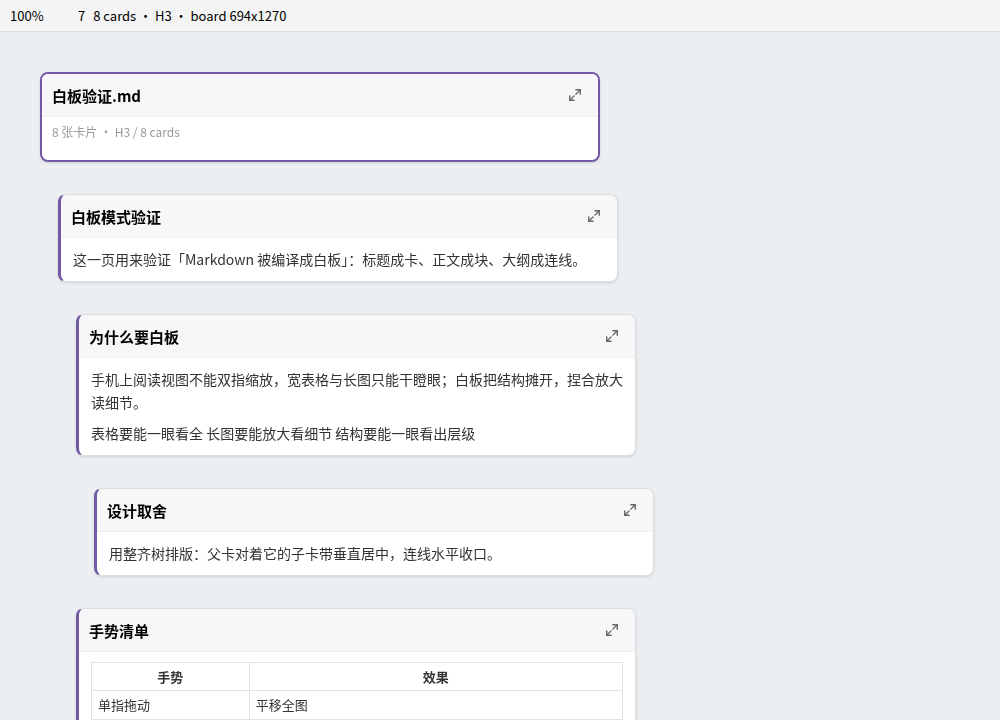
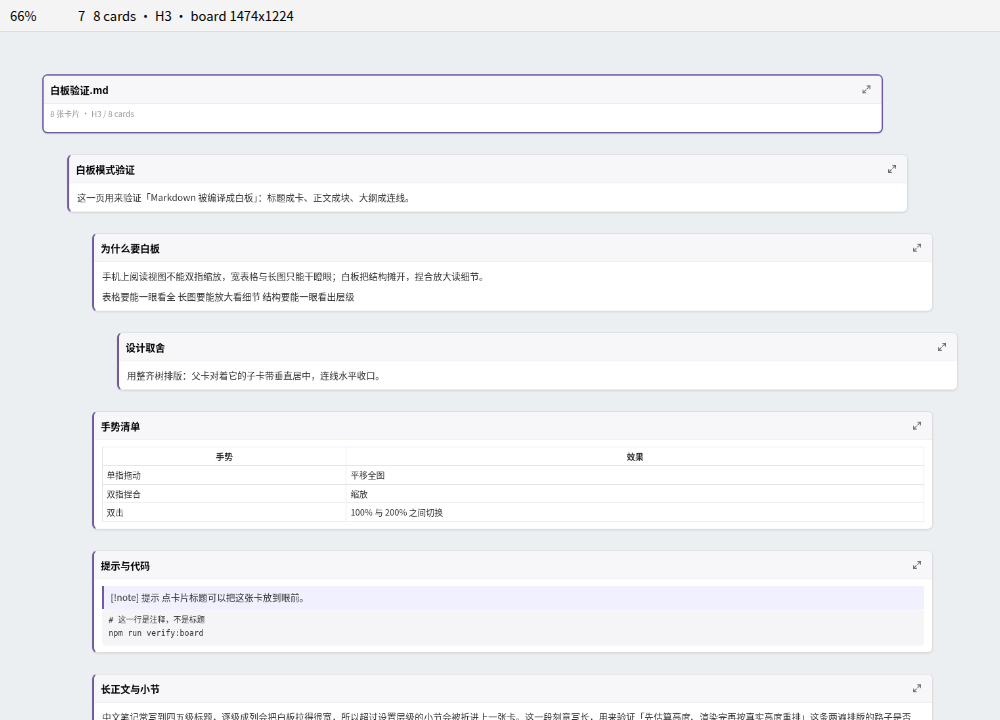
1.3.4：默认栏宽改 1280px（网页版心），并加「适配栏宽」一键铺满
用户反馈：「A5 宽度有点小，改为网页的宽度 1280px，这个符合上下滑动观看的体验效果。」

- 默认栏宽 560（A5）→ 1280px：一行放得下长句、表格有地方铺，整栏在正常屏幕上就是满宽，
  「往下滑 = 往下读」才成立。纸张仍是可选预设（A5 560 / A4 794），读数说人话：
  「1280 px · 网页宽 Web」「560 px · A5 · 148mm」。滑块范围放宽到 320~1600。
- 工具条新增「适配栏宽」：整栏铺满视口宽度（手机上 1280 装不下一屏时，一键进入纯上下滑）。
- 纵向流缩进随栏宽缩放（约栏宽 3%，1280 时约 38px）——固定 18px 在宽栏里看不出层级。

验证：100 单测 / verify:board 49 / verify:gestures 74 / verify:labels 9 / verify:layout 全过，
npm run check 退出码 0。verify:board 新增：出厂默认确为 1280 且读数含「网页宽」、
A5 预设仍 = 148mm ≈ 560px、适配栏宽后最右卡片边缘落在视口内且 scale < 1。

diff --git a/src/settings-spec.ts b/src/settings-spec.ts
@@ -73,6 +73,10 @@ export interface ZoomableReaderSettings {
 export const PAPER_WIDTHS_PX = { A6: 397, A5: 560, A4: 794 } as const;
 export type PaperName = keyof typeof PAPER_WIDTHS_PX;
 
+/** 网页版心宽度（桌面 Web 的常见内容宽度）。白板默认就是它：一行放得下长句，
+ *  配合「往下滑就是往下读」最顺 —— 比 A5（560px）宽得多，不再是窄窄一条。 */
+export const WEB_WIDTH_PX = 1280;
+
 /** 这个宽度是不是某张标准纸（容差 8px：滑块步长 10px，落点不会精确到小数点）。 */
 export function paperNameFor(width: number, tolerance: number = 8): PaperName | null {
   for (const name of Object.keys(PAPER_WIDTHS_PX) as PaperName[]) {
@@ -86,10 +90,19 @@ export function widthToMm(width: number): number {
   return Math.round((width / 96) * 25.4);
 }
 
-/** 设置页里滑块右侧的读数：「560 px ≈ A5 · 148mm」。 */
+/** 这个宽度的人话名字：网页宽 / A5 / A4 …… 都不是就返回 null（只报毫米）。 */
+export function widthPresetName(width: number, tolerance: number = 8): string | null {
+  if (Math.abs(width - WEB_WIDTH_PX) <= tolerance) return "网页宽 Web";
+  return paperNameFor(width, tolerance);
+}
+
+/** 设置页里滑块右侧的读数：「1280 px · 网页宽 Web」/「560 px · A5 · 148mm」。 */
 export function cardWidthLabel(width: number): string {
   const paper = paperNameFor(width);
-  return width + " px" + (paper ? " ≈ " + paper : "") + " · " + widthToMm(width) + "mm";
+  if (paper) return width + " px · " + paper + " · " + widthToMm(width) + "mm";
+  const preset = widthPresetName(width);
+  if (preset) return width + " px · " + preset;
+  return width + " px · " + widthToMm(width) + "mm";
 }
 
 export const DEFAULT_SETTINGS: ZoomableReaderSettings = {
@@ -102,9 +115,10 @@ export const DEFAULT_SETTINGS: ZoomableReaderSettings = {
   defaultMode: "page",
   showToolbar: true,
   padding: 16,
-  /* 默认 A5：卡片就是一张纸（148mm 宽 ≈ 560px）。以前是 320px，正文一行只有二十来个字，
-   * 既不像纸也太窄 —— 用户实测反馈「白板看起来尺寸很小」。 */
-  boardCardWidth: PAPER_WIDTHS_PX.A5,
+  /* 默认 1280px = 网页版心宽度（桌面 Web 常见内容宽度）。
+   * 演进：320px（一行二十来个字，太窄）→ A5 560px（像纸，但手机上仍偏窄）→ 1280px。
+   * 用户实测反馈：「A5 宽度有点小，改成网页的宽度 1280px，这个符合上下滑动观看的体验」。 */
+  boardCardWidth: WEB_WIDTH_PX,
   boardMaxDepth: 3,
   boardGap: 32,
   boardConnectors: true,
@@ -333,14 +347,14 @@ export const SETTINGS_GROUPS: SettingsGroupSpec[] = [
         id: "board-card-width",
         key: "boardCardWidth",
         min: 320,
-        max: 900,
-        step: 10,
+        max: 1600,
+        step: 20,
         format: cardWidthLabel,
-        zh: "卡片宽度（纸张大小）",
-        en: "Card width (paper size)",
-        zhDesc: "默认 A5（148mm ≈ 560px）：卡片就是一张纸，一行 30~40 个汉字，接近书的行长。A4 更宽、A6 更窄；白板本身可以捏合缩放，选自己顺眼的。",
-        enDesc: "Defaults to A5 (148mm, about 560px): a card is a sheet of paper, 30-40 Chinese characters per line. A4 is wider, A6 narrower; the board itself zooms, so pick what reads best.",
-        aliases: ["卡片", "宽度", "纸张", "尺寸", "A4", "A5", "A6", "card", "width", "paper", "size", "board"],
+        zh: "栏宽（卡片宽度）",
+        en: "Column width (card width)",
+        zhDesc: "默认 1280px = 网页版心宽度：一行放得下长句，配合上下滑动阅读最顺。想要纸的感觉可以调到 560（A5）或 794（A4），读数会显示毫米数；白板本身能捏合缩放，选自己顺眼的。",
+        enDesc: "Defaults to 1280 px, a desktop web content width: long lines, and it reads well when you simply scroll down. Pick 560 (A5) or 794 (A4) for a paper feel — the readout shows millimetres. The board zooms, so use what reads best.",
+        aliases: ["卡片", "宽度", "栏宽", "版心", "纸张", "尺寸", "网页", "A4", "A5", "A6", "card", "width", "column", "paper", "size", "web", "board"],
       },
       {
         control: "slider",

diff --git a/tests/settings-spec.test.ts b/tests/settings-spec.test.ts
@@ -4,8 +4,10 @@ import {
   DEFAULT_SETTINGS,
   PAPER_WIDTHS_PX,
   SETTINGS_GROUPS,
+  WEB_WIDTH_PX,
   cardWidthLabel,
   paperNameFor,
+  widthPresetName,
   widthToMm,
 } from "../src/settings-spec";
 
@@ -91,31 +93,40 @@ describe("设置页的双语契约", () => {
   });
 });
 
-describe("纸张尺寸：默认 A5（用户要求「默认要 A5，这符合纸张的大小」）", () => {
-  it("默认卡片宽 = A5 宽（148mm 在 96dpi 下 ≈ 560px）", () => {
-    expect(paperNameFor(DEFAULT_SETTINGS.boardCardWidth)).toBe("A5");
-    expect(widthToMm(DEFAULT_SETTINGS.boardCardWidth)).toBe(148);
-    expect(Math.abs(DEFAULT_SETTINGS.boardCardWidth - (148 / 25.4) * 96)).toBeLessThanOrEqual(1);
+describe("栏宽：默认 1280 网页宽（用户要求「改成网页的宽度 1280px，符合上下滑动观看」）", () => {
+  it("默认栏宽 = 1280px（网页版心）", () => {
+    expect(DEFAULT_SETTINGS.boardCardWidth).toBe(WEB_WIDTH_PX);
+    expect(WEB_WIDTH_PX).toBe(1280);
+    expect(widthPresetName(DEFAULT_SETTINGS.boardCardWidth)).toContain("网页宽");
   });
 
-  it("三张常见纸都能被认出来（A6 / A5 / A4）", () => {
-    expect(paperNameFor(PAPER_WIDTHS_PX.A6)).toBe("A6");
+  it("纸张仍是可选预设：A5 宽 148mm 在 96dpi 下 ≈ 560px", () => {
     expect(paperNameFor(PAPER_WIDTHS_PX.A5)).toBe("A5");
+    expect(widthToMm(PAPER_WIDTHS_PX.A5)).toBe(148);
+    expect(Math.abs(PAPER_WIDTHS_PX.A5 - (148 / 25.4) * 96)).toBeLessThanOrEqual(1);
+  });
+
+  it("三张常见纸都能被认出来（A6 / A5 / A4），1280 不算纸", () => {
+    expect(paperNameFor(PAPER_WIDTHS_PX.A6)).toBe("A6");
     expect(paperNameFor(PAPER_WIDTHS_PX.A4)).toBe("A4");
+    expect(paperNameFor(WEB_WIDTH_PX)).toBeNull();
     expect(paperNameFor(500)).toBeNull();
   });
 
-  it("滑块读数带毫米与纸名（用户按「多大一张纸」来选，而不是按像素）", () => {
-    expect(cardWidthLabel(DEFAULT_SETTINGS.boardCardWidth)).toContain("A5");
-    expect(cardWidthLabel(DEFAULT_SETTINGS.boardCardWidth)).toContain("148mm");
+  it("滑块读数说人话：网页宽给「网页宽 Web」，纸张给毫米数", () => {
+    expect(cardWidthLabel(WEB_WIDTH_PX)).toContain("网页宽");
+    expect(cardWidthLabel(PAPER_WIDTHS_PX.A5)).toContain("A5");
+    expect(cardWidthLabel(PAPER_WIDTHS_PX.A5)).toContain("148mm");
     expect(cardWidthLabel(500)).toContain("132mm");
   });
 
-  it("A4 也在滑块能选到的范围内", () => {
+  it("滑块范围能选到 1280（默认值）与 A4", () => {
     const spec = ALL_SETTING_SPECS.find((s) => s.id === "board-card-width");
     expect(spec?.control).toBe("slider");
-    const slider = spec as { min: number; max: number };
+    const slider = spec as { min: number; max: number; step: number };
+    expect(slider.max).toBeGreaterThanOrEqual(WEB_WIDTH_PX);
     expect(slider.max).toBeGreaterThanOrEqual(PAPER_WIDTHS_PX.A4);
+    expect((WEB_WIDTH_PX - slider.min) % slider.step).toBe(0);
   });
 });
 

diff --git a/tests/board-layout.test.ts b/tests/board-layout.test.ts
@@ -6,6 +6,7 @@ import {
   FLOW_MAX_INDENT_DEPTH,
   cardAt,
   estimateCardHeight,
+  flowIndentStep,
   layoutBoard,
   layoutBoardByMode,
   layoutBoardFlow,
@@ -179,10 +180,10 @@ describe("layoutBoardFlow：单栏纵向流（一张 A5 纸，往下滑就是往
     expect(layout.cards.map((c) => c.id)).toEqual(doc.nodes.map((n) => n.id));
   });
 
-  it("层级用缩进表达，且缩进到第 3 级就封顶（纸再窄就不是纸了）", () => {
+  it("层级用缩进表达，且缩进到第 3 级就封顶", () => {
     for (const card of doc.nodes) {
       const rect = layout.byId[card.id];
-      expect(rect.x).toBe(40 + Math.min(card.depth, FLOW_MAX_INDENT_DEPTH) * FLOW_INDENT_STEP);
+      expect(rect.x).toBe(40 + Math.min(card.depth, FLOW_MAX_INDENT_DEPTH) * flowIndentStep(560));
     }
     const deep = layout.cards.filter((c) => c.depth >= FLOW_MAX_INDENT_DEPTH).map((c) => c.x);
     expect(new Set(deep).size).toBe(1);
@@ -202,9 +203,15 @@ describe("layoutBoardFlow：单栏纵向流（一张 A5 纸，往下滑就是往
     }
   });
 
-  it("宽度 = 留白×2 + 最大缩进 + 纸张宽度（不会随内容横着长）", () => {
-    const maxIndent = Math.min(3, FLOW_MAX_INDENT_DEPTH) * FLOW_INDENT_STEP;
+  it("宽度 = 留白×2 + 最大缩进 + 栏宽（不会随内容横着长）", () => {
+    const maxIndent = FLOW_MAX_INDENT_DEPTH * flowIndentStep(560);
     expect(layout.width).toBe(40 * 2 + maxIndent + 560);
+  });
+
+  it("缩进随栏宽放大：1280 宽的栏里，18px 的缩进根本看不出层级", () => {
+    expect(flowIndentStep(1280)).toBeGreaterThan(flowIndentStep(560));
+    expect(flowIndentStep(1280)).toBeGreaterThanOrEqual(30);
+    expect(flowIndentStep(320)).toBe(FLOW_INDENT_STEP);
   });
 
   it("实测高度优先（第二遍按真实 DOM 高度重排）", () => {

diff --git a/src/board-layout.ts b/src/board-layout.ts
@@ -63,9 +63,15 @@ export const DEFAULT_BOARD_LAYOUT: Omit<BoardLayoutOptions, "heights"> = {
   padding: 40,
 };
 
-/** 纵向流里每深一级缩进多少（px）。缩进到第 3 级就不再往里缩了：A5 纸再窄就不是纸了。 */
+/** 纵向流里每深一级缩进多少（px）。缩进到第 3 级就不再往里缩了。
+ *  按栏宽取比例（默认 1280 时约 38px）—— 固定 18px 在宽栏里根本看不出层级。 */
 export const FLOW_INDENT_STEP = 18;
 export const FLOW_MAX_INDENT_DEPTH = 3;
+
+/** 实际缩进值：至少 18px，宽栏时约取栏宽的 3%。 */
+export function flowIndentStep(cardWidth: number): number {
+  return Math.max(FLOW_INDENT_STEP, Math.round(cardWidth * 0.03));
+}
 
 /** 白板的两种排版：单栏纵向流（读文档）/ 分支树（看全局）。 */
 export type BoardLayoutMode = "flow" | "tree";
@@ -248,7 +254,7 @@ export function layoutBoardFlow(doc: BoardDoc, options: Partial<BoardLayoutOptio
     const measured = opts.heights ? opts.heights[node.id] : undefined;
     const height = typeof measured === "number" && measured > 0 ? measured : estimateCardHeight(node, cardWidth);
     const level = Math.min(node.depth, FLOW_MAX_INDENT_DEPTH);
-    const indent = level * FLOW_INDENT_STEP;
+    const indent = level * flowIndentStep(cardWidth);
     indentMax = Math.max(indentMax, indent);
     const card: BoardCard = {
       id: node.id,

diff --git a/src/view.ts b/src/view.ts
@@ -116,6 +116,11 @@ export class ZoomableReaderView extends ItemView {
       this.registerDomEvent(this.labelEl, "click", () => this.resetView());
       this.makeButton(bar, "plus", "放大 / Zoom in", () => this.zoom(1));
       if (this.mode === "board") {
+        /* 「适配栏宽」：把整栏铺满视口宽度 —— 之后只剩上下滑动，一眼一行读到尾。
+         * 栏宽 1280 在手机上装不下一屏时，这是「上下滑动阅读」最快的一个动作。 */
+        this.makeButton(bar, "move-horizontal", "适配栏宽 / Fit column width", () => {
+          if (this.layer) this.layer.fitWidth(this.padding);
+        });
         this.makeButton(bar, "scan", "回到全图 / Fit the whole board", () => this.fitBoard());
         this.makeButton(bar, "focus", "回到标题卡 / Back to the title card", () => this.focusRoot());
         this.makeButton(bar, "refresh-cw", "重新编译 / Recompile now", () => void this.recompile());

diff --git a/tests/browser/board.html b/tests/browser/board.html
@@ -313,6 +313,7 @@ function visibleCards() {
     contentPoint: function (px, py) { var t = layer.transform; return { x: (px - t.x) / t.scale, y: (py - t.y) / t.scale }; },
     focusCard: focusCard,
     fitBoard: function () { layer.focusRect({ x: 0, y: 0, width: board.layout.width, height: board.layout.height }, 16); },
+    fitColumn: function () { layer.fitWidth(16); },
     reset: function (padding) { layer.reset(padding === undefined ? 16 : padding); },
     setPinch: function (on) { settings.pinch = !!on; buildLayer(); },
     setModeClasses: function (mode) { window.BoardRender.applyModeClasses(rootEl, mode); },

diff --git a/README.md b/README.md
@@ -13,10 +13,11 @@ wheel on desktop, drag to pan.
 
 ## 中文速览
 
-- **白板模式**：把一篇 Markdown 编译成一张 **A5 纸（148mm）宽的单栏**，**往下滑就是往下读**
-  （默认「单栏纵向流」；标题成节、缩进表达层级、打开即原大）。想要「横着看全局」就在设置里换成
-  **分支树**：标题成列成卡、连线成大纲。**每次进白板都重新编译一遍**，笔记改了白板跟着变
-  （只读，不落盘）。设置 → **白板模式 → 打开笔记时的默认模式 → 白板**，之后就默认进白板。
+- **白板模式**：把一篇 Markdown 编译成 **一栏 1280px（网页版心宽）** 的长页，**往下滑就是往下读**
+  （默认「单栏纵向流」；标题成节、缩进表达层级、打开即原大；工具栏有「适配栏宽」一键把整栏铺满屏）。
+  想要「横着看全局」就在设置里换成 **分支树**：标题成列成卡、连线成大纲。想要纸的感觉可以把栏宽调到
+  560（A5）或 794（A4）。**每次进白板都重新编译一遍**，笔记改了白板跟着变（只读，不落盘）。
+  设置 → **白板模式 → 打开笔记时的默认模式 → 白板**，之后就默认进白板。
 - **双指捏合在哪**：设置页第一组就是 **手势与缩放 → 双指捏合缩放**（还有一张「手势速查」表）。
   手机上要能缩放，必须用**本插件的视图**打开笔记（侧边栏放大镜图标、命令面板，或文件列表长按
   → 「编译成白板」）—— Obsidian 自带的阅读视图无法缩放，这是应用层限制，任何主题都改不了。
@@ -68,10 +69,12 @@ Notes:
 
 ![The same note as a whiteboard: heading cards, content blocks, connectors](docs/images/screenshot-board-desktop.png)
 
-Two layouts, one compiler. The default is **single column**: one A5-wide sheet per section, stacked
-in document order — scrolling down *is* reading down, with indentation for hierarchy. Switch to
-**branch tree** when you want the whole outline sideways. This is not "the note floating on a board"
-— the Markdown itself is compiled:
+Two layouts, one compiler. The default is **single column**: one 1280 px column (a desktop web
+content width — wide enough for long lines, so scrolling down *is* reading down), sections stacked in
+document order with indentation for hierarchy, and a **fit column width** button that fills the
+viewport with the column so only vertical movement remains. Switch to **branch tree** when you want
+the whole outline sideways; set the column to 560 px (A5) or 794 px (A4) if you prefer a sheet of
+paper. This is not "the note floating on a board" — the Markdown itself is compiled:
 
 - **Every heading becomes a card**, holding that section's content. Frontmatter is skipped (it is
   metadata, not the note). Code fences, tables, callouts, quotes, math, images and Mermaid blocks
@@ -102,9 +105,11 @@ Whiteboard settings: **打开笔记时的默认模式 / default mode**, **卡片
 width (paper size)** (320–900 px, default 560 px ≈ A5), **卡片展开层级 / outline depth** (H1–H6),
 **卡片间距 / card spacing**, **显示连线 / connectors**, **卡片数量上限 / card limit**.
 
-Paper first: a card is a sheet. A5 (148 mm ≈ 560 px at 96 dpi) gives roughly 30–40 Chinese
-characters per line, which is what a book does; A4 is wider, A6 narrower. The board opens at
-**natural size** — one A5 page, not a fit-everything miniature — and pans and pinches from there.
+Width first: the default column is **1280 px**, the content width a desktop web page uses — long
+lines, and the whole column fits a normal screen so reading is a vertical gesture. The slider also
+names the paper presets (A5 = 148 mm ≈ 560 px, A4 ≈ 794 px) for anyone who wants a book measure. The
+board opens at **natural size** (not shrunk to fit), and 适配栏宽 / *fit column width* takes you to
+"see the whole column, scroll down" in one tap.
 
 The board is a *view*: it is recompiled every time you enter whiteboard mode, and it recompiles
 again whenever the note changes (a save, or live typing in another pane, throttled to 400 ms).
@@ -134,7 +139,7 @@ Obsidian 1.13+ **settings search** — typing 双指 or pinch jumps straight to 
 | 显示工具条 / Show toolbar | on | Zoom buttons, zoom level, mode switch, fit |
 | 版心四周留白 / Page padding | 16 px | Gap between the note and the edge (page mode) |
 | 白板排版 / Board layout | 单栏纵向流 single column | 单栏纵向流 scroll down to read, or 分支树 branch tree to see the outline sideways |
-| 卡片宽度（纸张大小）/ Card width (paper) | 560 px ≈ A5 | Whiteboard card width; A5 = 148 mm, A4/A6 also easy to pick |
+| 栏宽（卡片宽度）/ Column width | 1280 px（网页宽 Web） | 1280 = desktop web content width; 560 = A5, 794 = A4 for a paper feel |
 | 卡片展开层级 / Outline depth | H3 | Headings deeper than this fold into the ancestor card |
 | 卡片间距 / Card spacing | 32 px | Vertical gap; parent-to-child spacing is 2.5x that |
 | 显示连线 / Show connectors | on | Parent-to-child bezier connectors (branch-tree layout; the single column shows hierarchy by indentation) |

diff --git a/CHANGELOG.md b/CHANGELOG.md
@@ -1,5 +1,24 @@
 # Changelog
 
+## 1.3.4
+
+- **The column is 1280 px by default — a desktop web content width.** A5 (560 px) turned out to be
+  the wrong default for reading on a screen: long Chinese lines wrapped early and the column felt
+  narrow. 1280 px is the width a web page uses, so lines are long, tables have room, and the column
+  fills a normal screen — which is what makes reading a purely vertical gesture. The slider still
+  names the paper presets (**A5 = 148 mm ≈ 560 px**, A4 ≈ 794 px) and the readout says
+  `1280 px · 网页宽 Web` or `560 px · A5 · 148mm` so the choice is obvious either way.
+- **适配栏宽 / fit column width** — a new toolbar button that fills the viewport with the column
+  width, so on a phone (or a small window) you can see a whole line and then just scroll down. The
+  board still opens at 100% (readable), and you decide when to trade size for the whole column.
+- Indentation scales with the column: 18 px per level was invisible in a 1280 px column, so it is
+  now about 3% of the width (≈ 38 px), still capped at three levels.
+
+Verification: `npm run verify:board` is now **49 assertions** — the default is asserted to be
+1280 px with the readout naming it (`网页宽 Web`), A5 is still asserted to be 148 mm ≈ 560 px as a
+preset, and the new *fit column width* assertion measures the real DOM: after one tap the widest card
+edge lands inside the viewport and the scale is below 1.
+
 ## 1.3.3
 
 - **Two layouts for the whiteboard, and the default is the one you read.** The board used to be a
